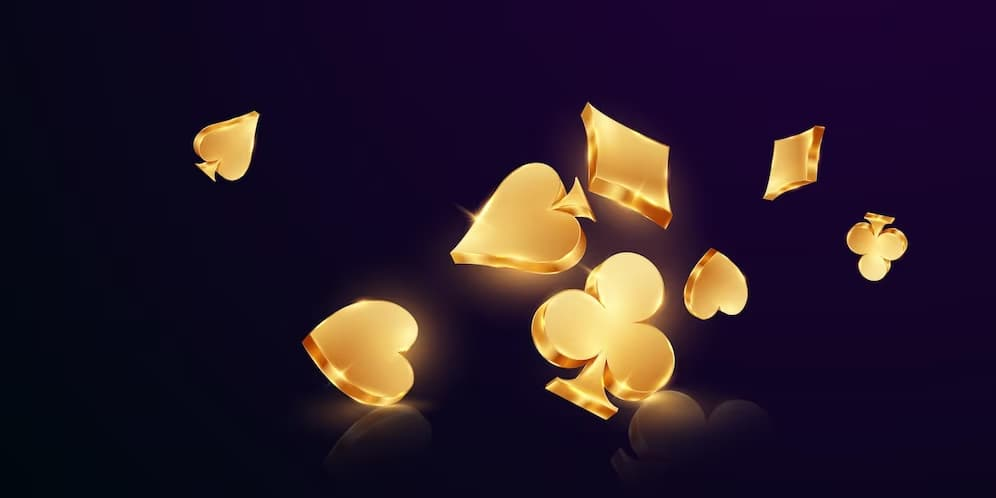
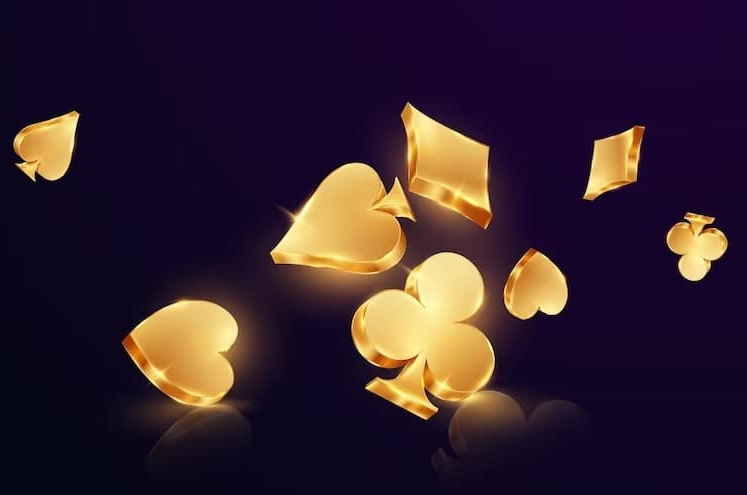
fix adaptive

diff --git a/src/pages/CardPage/CardPage.module.css b/src/pages/CardPage/CardPage.module.css
@@ -1,5 +1,5 @@
 .cardPage {
-  height: 100vh;
+  /* height: 100vh; */
   width: 100vw;
   background-image: url(../../images/cards-page-bg-mobile.jpg);
   background-size: cover;

diff --git a/README.md b/README.md
@@ -38,7 +38,7 @@ automatically is being saved saved to the score history (if user Signed In).
 After click on button `«Start New Game»`
 ![Start New Game](./assets/start-new-game.jpg) user can start new game.
 
-Also on the page `«Cards»` in left high corner exists button `«BACK»` that user
+Also on the page `«Cards»` in left high corner exists button `«Back»` that user
 can click on and return to the page `«Home»`.
 
 On the page `«Cards»` Signed In user can see general or his own score history.
@@ -64,7 +64,7 @@ history window.
 
 ---
 
-## **_Udsed frameworks for creating application_**
+## **_Udsed frameworks for creating this application_**
 
 [axios](https://axios-http.com/)
 [prop-types](https://github.com/facebook/prop-types)
